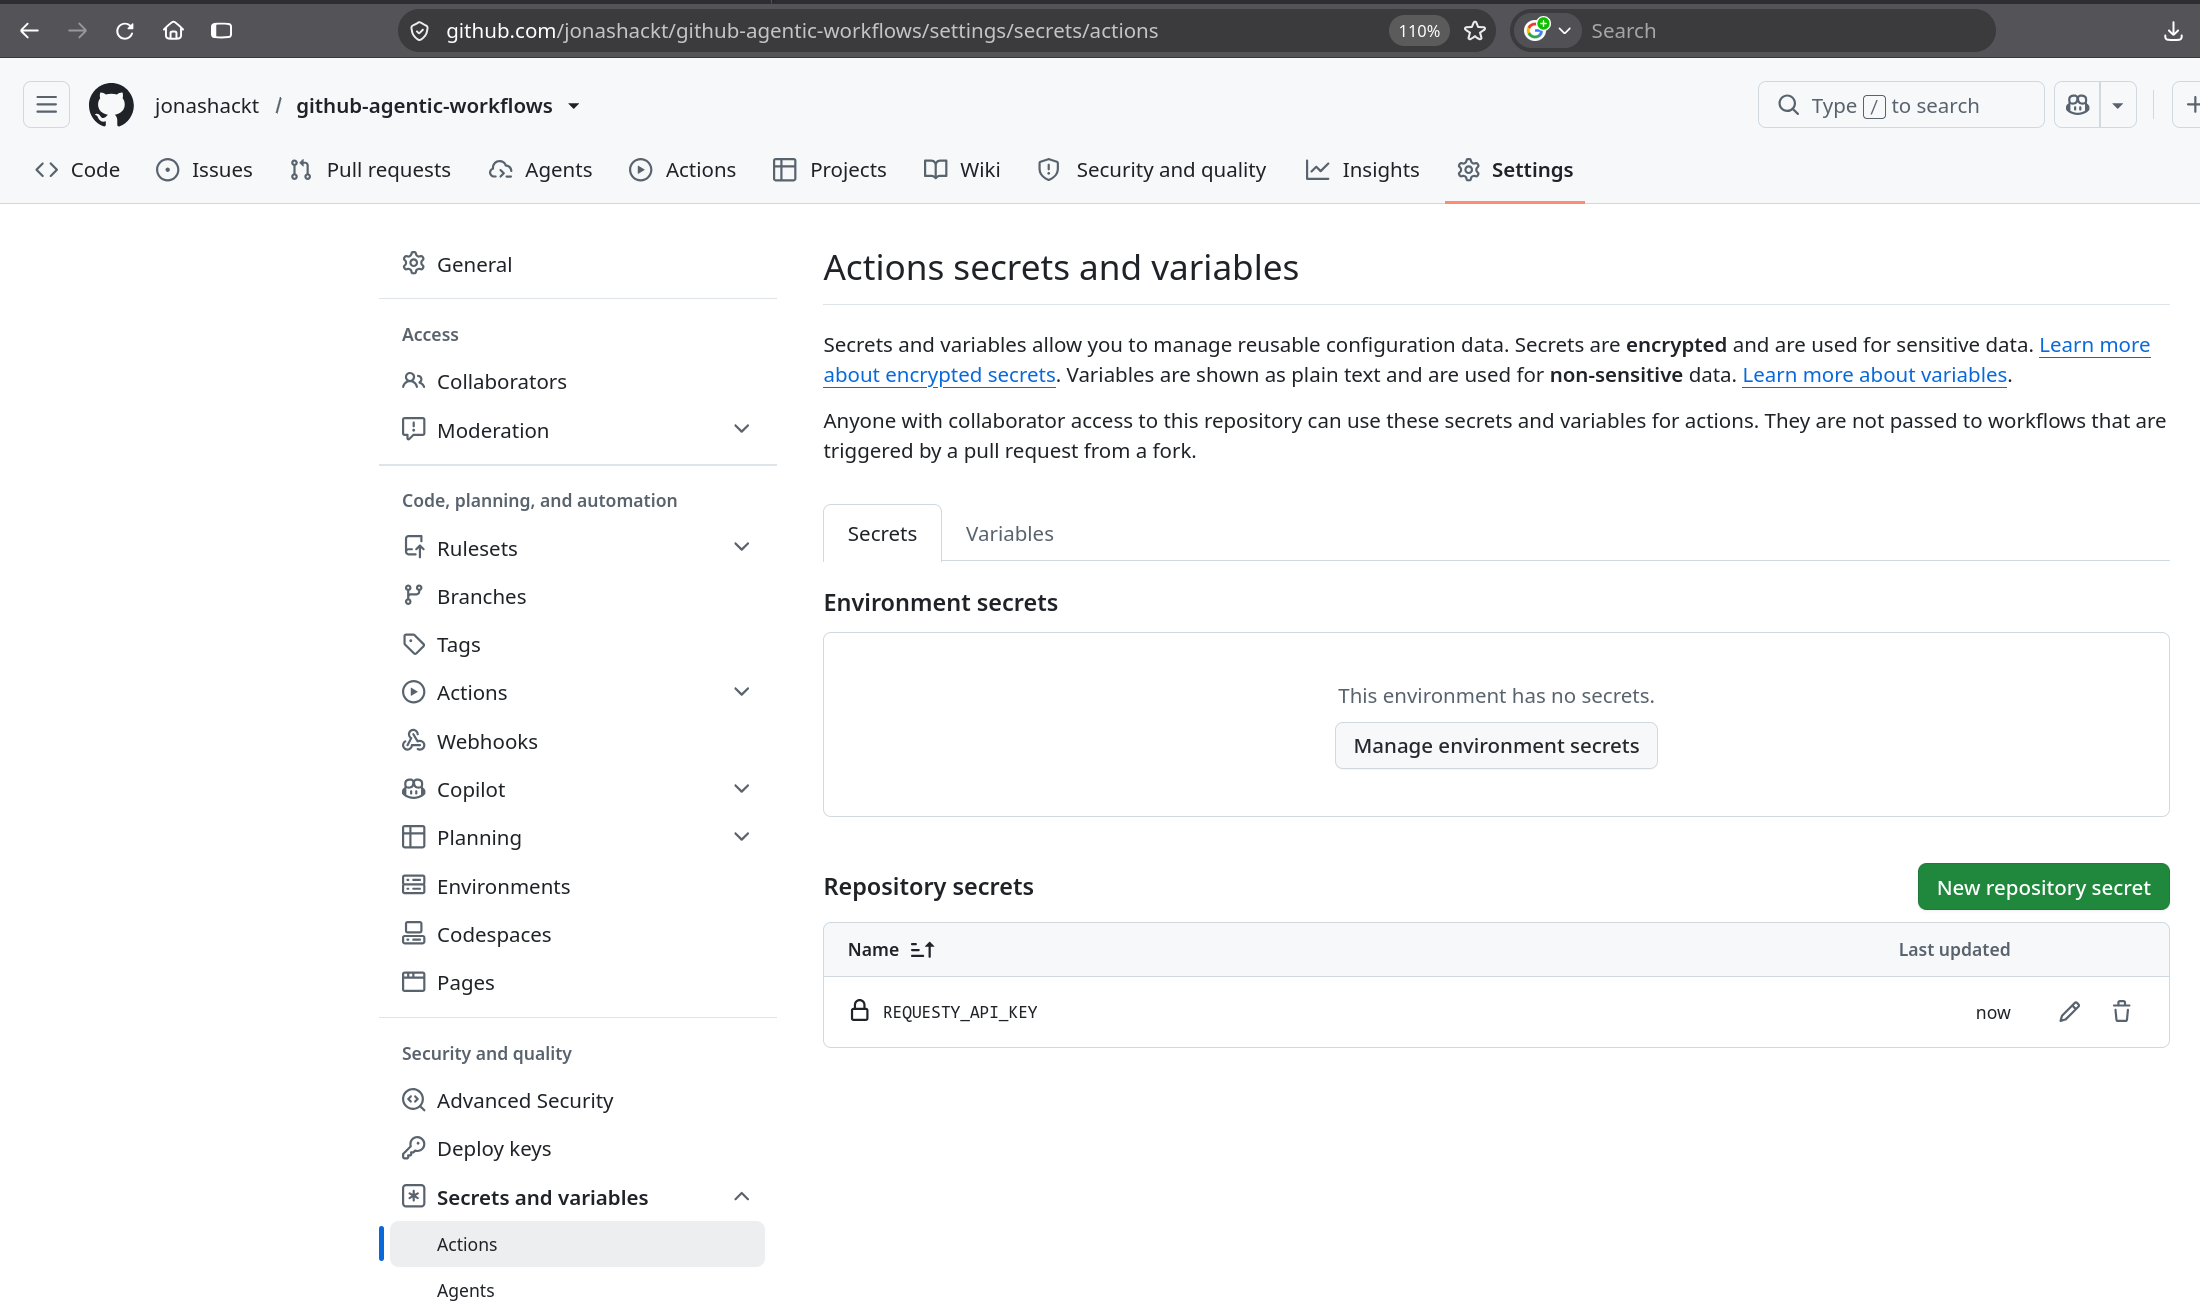
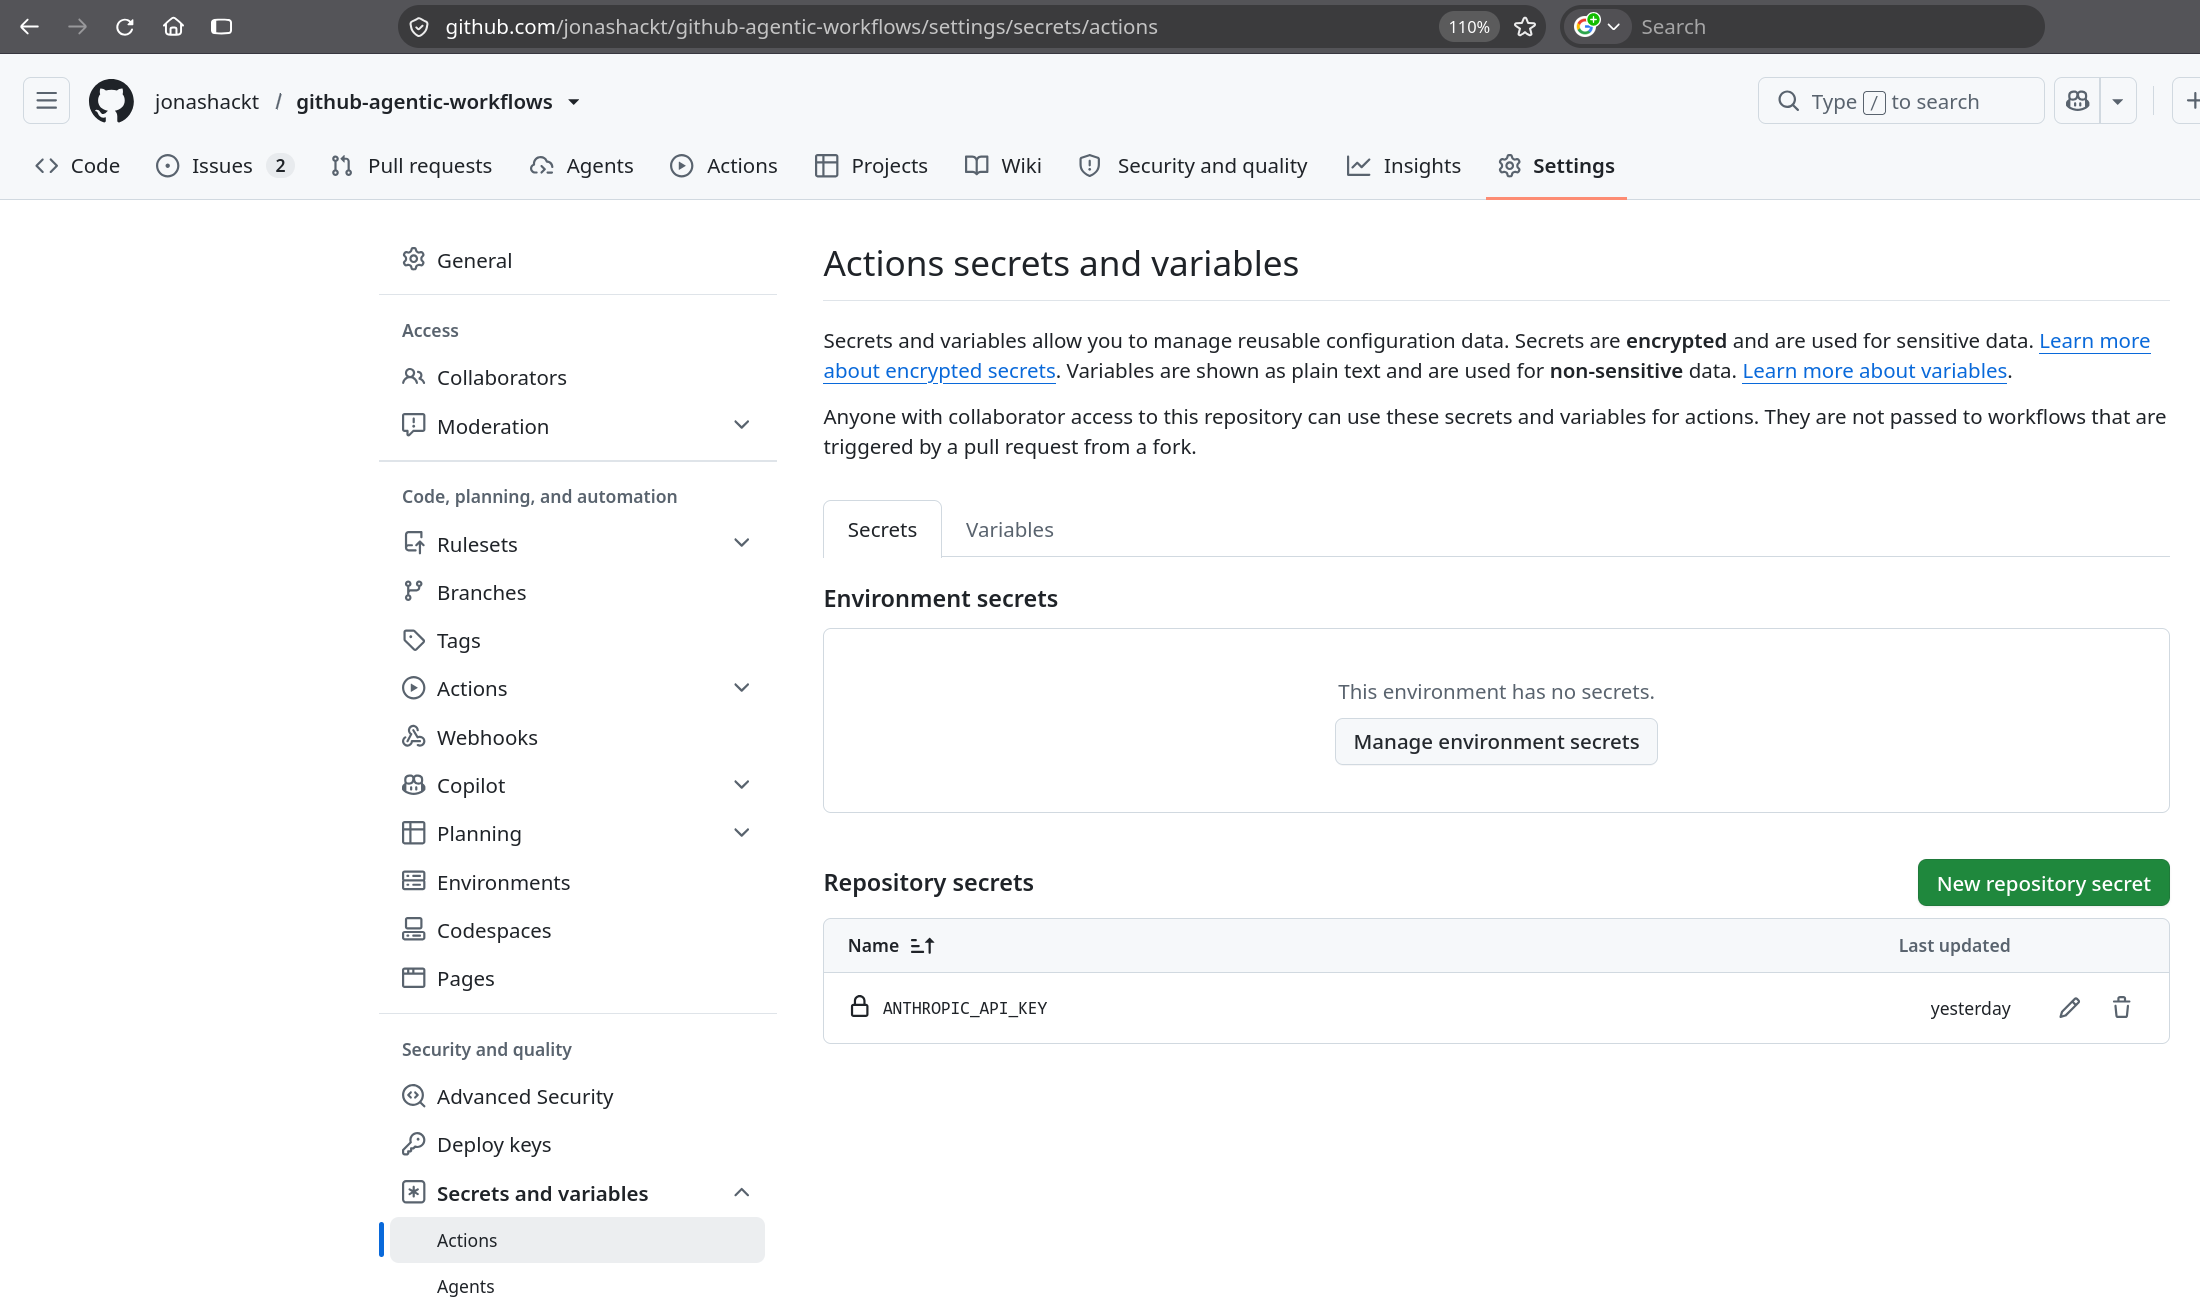
First completely working solution

diff --git a/README.md b/README.md
@@ -46,24 +46,80 @@ Now we should [setup our preferred AI engine](https://github.github.com/gh-aw/re
 
 
 
-# Setup your preferred AI engine: Claude through requesty.ai
+# Setup your preferred AI engine: Using Agentic Workflows with Claude on Google Vertex (EU) through requesty.ai
 
 There are [build-in AI engines](https://github.github.com/gh-aw/reference/engines/) available for GitHub Agentic Workflows like GitHub Copilot (which is obviously the default), Claude Code & OpenAI Codex. And there is the possibility to use [custom AI engines](https://github.github.com/gh-aw/reference/third-party-agent/) including OpenCode, Cursor, DeepSeek Harness among others.
 
-As a regular Claude user, you may simply use `ANTHROPIC_API_KEY` [as documented in the build-in docs](https://github.github.com/gh-aw/engines/claude/) - and you're good to go.
+As a Claude user, you may simply use `ANTHROPIC_API_KEY` [as documented in the build-in docs](https://github.github.com/gh-aw/engines/claude/) - and you're good to go.
 
-But if you're using a unified AI gateway/LLM router (featuring multiple models) like [requesty.ai](https://www.requesty.ai/), you need to be able to configure a different `ANTHROPIC_BASE_URL` also, which isn't documented in the same area of the AI engine docs. But luckily in the reference docs at the [GitHub Actions secrets for AI engines](https://github.github.com/gh-aw/reference/auth/?#github-actions-secrets-for-ai-engines) paragraph there's the `Custom endpoints` section [for the ANTHROPIC_API_KEY](https://github.github.com/gh-aw/reference/auth/?#anthropic_api_key):
+But if you're using a AI gateway/LLM router (featuring multiple models) like [requesty.ai](https://www.requesty.ai/) things become a bit more complicated. Digging into the topic I was reminded (again), that knowing the architecture behind the scenes is always better than to stab in the dark. So using requesty with a EU-based setup together with Google Vertex AI as the Managed Inference Platform our architecture looks like this:
+
+```shell
++------------------------------------------------------+
+| GitHub Actions Runner                                |
+|                                                      |
+|  +------------------------------------------------+  |
+|  | Agent Workflow Firewall (AWF)                  |  |
+|  |                                                |  |
+|  |  +----------------------+                      |  |
+|  |  | Agent Container      |                      |  |
+|  |  | Claude Code          |                      |  |
+|  |  | No API credentials   |                      |  |
+|  |  +----------+-----------+                      |  |
+|  |             |                                  |  |
+|  |             | http://api-proxy:10001           |  |
+|  |             v                                  |  |
+|  |  +----------------------+                      |  |
+|  |  | API Proxy Sidecar    |                      |  |
+|  |  | - API credentials    |                      |  |
+|  |  | - Auth injection     |                      |  |
+|  |  | - Request routing    |                      |  |
+|  |  +----------+-----------+                      |  |
+|  |             |                                  |  |
+|  |             v                                  |  |
+|  |  +----------------------+                      |  |
+|  |  | Squid Proxy          |                      |  |
+|  |  | Network egress       |                      |  |
+|  |  +----------+-----------+                      |  |
+|  +-------------|----------------------------------+  |
++----------------|-------------------------------------+
+                 |
+                 | HTTPS
+                 v
++------------------------------------------------------+
+| Requesty EU                                          |
+| router.eu.requesty.ai                                |
+| AI Gateway / Model Router                            |
++----------------+-------------------------------------+
+                 |
+                 v
++------------------------------------------------------+
+| Google Cloud Vertex AI (EU)                          |
+| Managed Inference Platform                           |
+|                                                      |
+| Model: Anthropic Claude Sonnet 5.5                   |
++------------------------------------------------------+
+```
+
+GitHub Agentic Workflows runs Claude Code in an isolated agent container within a GitHub Actions runner. The Agent Workflow Firewall (AWF) provides a dedicated API proxy sidecar that securely injects API credentials and forwards model requests, keeping secrets inaccessible to the agent. Outbound network traffic is controlled through a separate Squid proxy.
+
+In the Requesty setup I use, the model requests are routed through the Requesty EU AI Gateway to Google Cloud Vertex AI, which provides managed inference for Anthropic models in the EU.
+
+
+
+## Configuring requesty.ai in Agentic Workflows
+
+So in order to use requesty.ai with Agentic Workflows, we need to be able to configure a different `ANTHROPIC_BASE_URL` also. This isn't documented in [the same area of the AI engine docs](https://github.github.com/gh-aw/reference/engines/). But luckily in the reference docs at the [GitHub Actions secrets for AI engines](https://github.github.com/gh-aw/reference/auth/?#github-actions-secrets-for-ai-engines) paragraph there's the `Custom endpoints` section [for the ANTHROPIC_API_KEY](https://github.github.com/gh-aw/reference/auth/?#anthropic_api_key):
 
 > To route Claude through a custom Anthropic-compatible endpoint (e.g., an internal proxy or Azure-hosted model), set ANTHROPIC_BASE_URL in engine.env and store any additional credentials as secrets.
 
-So using requesty.ai needs the following `engine.env` variables in our workflow file [.github/workflows/first-agentic-workflow.md](.github/workflows/first-agentic-workflow.md):
+So using requesty.ai needs the following `engine.env` variables in our workflow file [.github/workflows/first-agentic-workflow.md](.github/workflows/first-agentic-workflow.md) (if you aren't using the requesty EU endpoint, you need to leave out the `.eu` from the urls):
 
 ```yaml
 engine:
   id: claude
   env:
     ANTHROPIC_BASE_URL: https://router.eu.requesty.ai
-    ANTHROPIC_MODEL: vertex/claude-sonnet-5-5@eu
 
 network:
   allowed:
@@ -71,26 +127,114 @@ network:
     - router.eu.requesty.ai #TODO: is this needed for requesty?
 ```
 
-Staring at the last line you may already spotted that we need to configure `router.eu.requesty.ai` [as an allowed network via the `network.allowed` keyword](https://github.github.com/gh-aw/reference/engines/?#custom-api-endpoints-via-environment-variables). This is needed, since the Agent Workflow Firewall (AWF) would otherwise block the request to requesty.
+Additionally we need to configure `router.eu.requesty.ai` [as an allowed network via the `network.allowed` keyword](https://github.github.com/gh-aw/reference/engines/?#custom-api-endpoints-via-environment-variables). This is needed, since the Agent Workflow Firewall (AWF) would otherwise block the request to requesty.
 
 
-You should also choose an approved model from the requesty model-library to configure in the `ANTHROPIC_MODEL` variable. You may find those via the direct link https://app.requesty.ai/model-library. A correct configuration for our requesty instance is:
 
-```shell 
-ANTHROPIC_MODEL: vertex/claude-sonnet-5-5@eu
-```
 
-See also our console:
+
+## Getting the requesty model declaration through the GitHub Agentic Workflows compiler
+
+You should also choose an approved model from the requesty model-library to configure in the `ANTHROPIC_MODEL` variable. You may find those via the direct link https://app.requesty.ai/model-library. Looking for the exact name, you have to search for it in your requesty.ai console:
 
 ![](docs/choose-requesty-approved-models.png)
 
-If you define a default Anthropic model name like `anthropic/claude-sonnet-5-5`, you may run into GitHub Actions errors like:
+
+Leaving out the model definition completely, would use a default Anthropic model name like `anthropic/claude-sonnet-5-5` and will mostly run into GitHub Actions errors like:
 
 ```shell
 "content":[{"type":"text","text":"Failed to authenticate. API Error: 403 The requested model is not approved for this API key. An org or group admin can approve it in the Model Library (https://app.requesty.ai/model-library) or add it to the access list attached to this key or group"}]
 ```
 
+The default GitHub Agentic Workflow [model aliases are documented here](https://github.github.com/gh-aw/reference/model-tables/).
 
+
+
+### Trying engine.model to set to vertex/claude-sonnet-5-5@eu
+
+The most straighforward approach for me was to use [the `engine.model` variable](https://github.github.com/gh-aw/reference/engines/#default-model-routing) to configure my requesty approved model name:
+
+```yaml
+engine:
+  id: claude
+  model: vertex/claude-sonnet-5-5@eu
+```
+
+But here I ran into an compilation error running `gh aw compile`:
+
+```shell
+gh aw compile
+✗ Compiled 1 workflow: 0 succeeded, 1 failed, 1 error, 0 warnings
+
+✗ Failed workflows:
+✗ first-agentic-workflow.md
+
+✗ first-agentic-workflow.md (1 error(s)):
+  • 🟡 MEDIUM PRIORITY:
+  • 1. .github/workflows/first-agentic-workflow.md:1:1: error: engine.model: model identifier: character '@' is not allowed in model token "claude-sonnet-5-5@eu[1m]" (segment type: model)
+i → Fix this configuration issue and re-run `gh aw compile`.
+✗ compilation failed
+```
+
+I turned out that the [GitHub Model Alias Format Specification](https://github.github.com/gh-aw/specs/model-alias-specification/) doesn't support the special characters `@` and `[]`.
+
+
+
+### Trying engine.env.ANTHROPIC_MODEL to set to vertex/claude-sonnet-5-5@eu
+
+So in my case I wanted to configure the requesty-approved model `vertex/claude-sonnet-5-5@eu`. My first attempt was to use the `engine.env.ANTHROPIC_MODEL` variable like this (which [is documented in the Claude Code Docs](https://code.claude.com/docs/en/settings#a-flag-or-environment-variable-sets-the-same-thing)):
+
+```shell 
+engine:
+  id: claude
+  env:
+    ANTHROPIC_MODEL: vertex/claude-sonnet-5-5@eu
+```
+
+The Actions error remained:
+
+```shell
+"content":[{"type":"text","text":"Failed to authenticate. API Error: 403 The requested model is not approved for this API key. An org or group admin can approve it in the Model Library (https://app.requesty.ai/model-library) or add it to the access list attached to this key or group"}]
+```
+
+Digging a bit deeper, I found that the GitHub Agentic Workflow engine just ignored or dropped the `engine.env.ANTHROPIC_MODEL` variable. I saw in the Actions logs, in the second job under `Execute Claude Code CLI`:
+
+```shell
+ [claude-harness] 2026-11-12T08:24:57.401Z model resolution: engine=claude role=main configured=claude-sonnet-5 resolved=claude-sonnet-5 provider=anthropic status=exact
+```
+
+So I needed to try something different.
+
+
+
+### What about GH_AW_MODEL_AGENT_CLAUDE?
+
+I stumbled upon the [`GH_AW_MODEL_AGENT_CLAUDE` environment variable](https://github.github.com/gh-aw/reference/environment-variables/#model-override-variables), which I found in the model override environment variables section of the GitHub Agentic Workflows docs.
+
+Ideally I wanted a solution, where the variable would be set inside the workflow file also, so I tried to directly define it there like this:
+
+```yaml
+env:
+  GH_AW_MODEL_AGENT_CLAUDE: "vertex/claude-sonnet-5-5@eu[1m]"
+```
+
+Sadly, this also didn't make it through the GitHub Agentic Workflow engine:
+
+```shell
+ [claude-harness] 2026-11-12T08:24:57.401Z model resolution: engine=claude role=main configured=claude-sonnet-5 resolved=claude-sonnet-5 provider=anthropic status=exact
+```
+
+But there was a solution: Defining the `GH_AW_MODEL_AGENT_CLAUDE` variable on the GitHub repository level. Setting the variable as repository variable worked finally:
+
+```shell
+gh variable set GH_AW_MODEL_AGENT_CLAUDE --body 'vertex/claude-sonnet-5-5@eu[1m]'
+gh variable get GH_AW_MODEL_AGENT_CLAUDE
+```
+
+
+## Where to put the Requesty API token: `ANTHROPIC_AUTH_TOKEN` vs. `ANTHROPIC_API_KEY`
+
+We somehow need to configure our Requesty API token to work with GitHub Agentic Workflows. It's quite counterintuitive I have learned!
 
 As [the Requesty documentation states](https://www.requesty.ai/blog/claude-code-environment-variables-anthropic-base-url-auth-token), we should use `ANTHROPIC_AUTH_TOKEN` instead of `ANTHROPIC_API_KEY` when configuring a different LLM gateway than Anthropic.
 
@@ -126,7 +270,9 @@ The reason is that the Agent Workflow Firewall (AWF) [blocks the usage of such s
 
 This prevents secrets from beeing injected into workflows - and thus from potential leaks. Which might also be the good reason to have the scrict mode turned on in `gh aw compile`.
 
-So let's try to use the `ANTHROPIC_API_KEY` GitHub Actions secret instead. You can create the Secret using the `gh aw` CLI like this:
+So just the opposide as [the Requesty documentation states](https://www.requesty.ai/blog/claude-code-environment-variables-anthropic-base-url-auth-token), with GitHub Agentic Workflows I tried to use the `ANTHROPIC_API_KEY` GitHub Actions secret instead. And: it worked!
+
+You can create the Secret using the `gh aw` CLI like this:
 
 ```shell
 gh aw secrets set ANTHROPIC_API_KEY --value "REQUESTY_API_KEY"
@@ -134,14 +280,9 @@ gh aw secrets set ANTHROPIC_API_KEY --value "REQUESTY_API_KEY"
 
 or using the GitHub UI:
 
-//TODO: change Secrets name
-
 ![](docs/github-actions-secrets-for-agentic-workflows.png)
 
 Since this is a Agent Workflows build-in engine key, we don't need to define it inside our workflow anywhere.
-
-
-
 
 
 
@@ -162,7 +303,6 @@ engine:
   id: claude
   env:
     ANTHROPIC_BASE_URL: https://router.eu.requesty.ai
-    ANTHROPIC_MODEL: anthropic/claude-sonnet-5-5
 
 network:
   allowed:
@@ -241,6 +381,7 @@ That one should run without warnings.
 It's also worth to note that using `--approve` [won't deactivate the strict mode generally](https://github.github.com/gh-aw/specs/safe-update-specification/), so it can be used savely if you were the one changing secrets.
 
 So now our generated workflow in [.github/workflows/first-agentic-workflow.lock.yml](.github/workflows/first-agentic-workflow.lock.yml) should be ready to be committed!
+
 
 
 # Trigger your first Agentic Workflow!

diff --git a/.github/workflows/first-agentic-workflow.md b/.github/workflows/first-agentic-workflow.md
@@ -5,9 +5,6 @@ on:
 permissions:
   contents: read
 
-env:
-  GH_AW_MODEL_AGENT_CLAUDE: "vertex/claude-sonnet-5-5@eu[1m]"
-
 engine:
   id: claude
   env:
